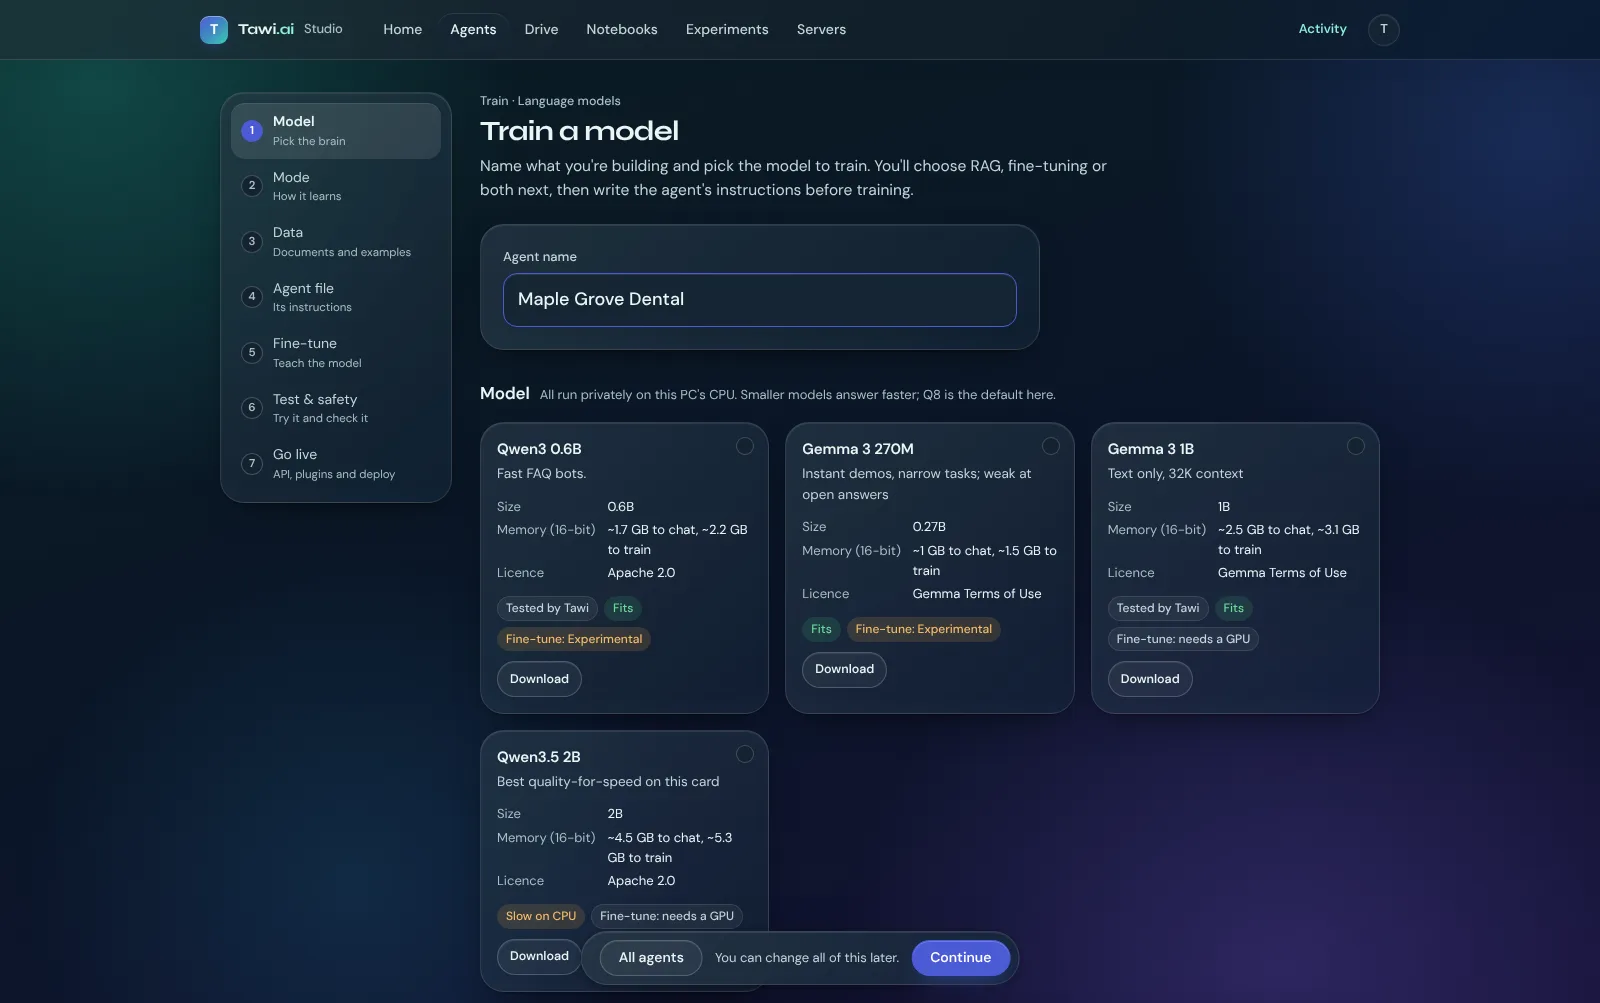
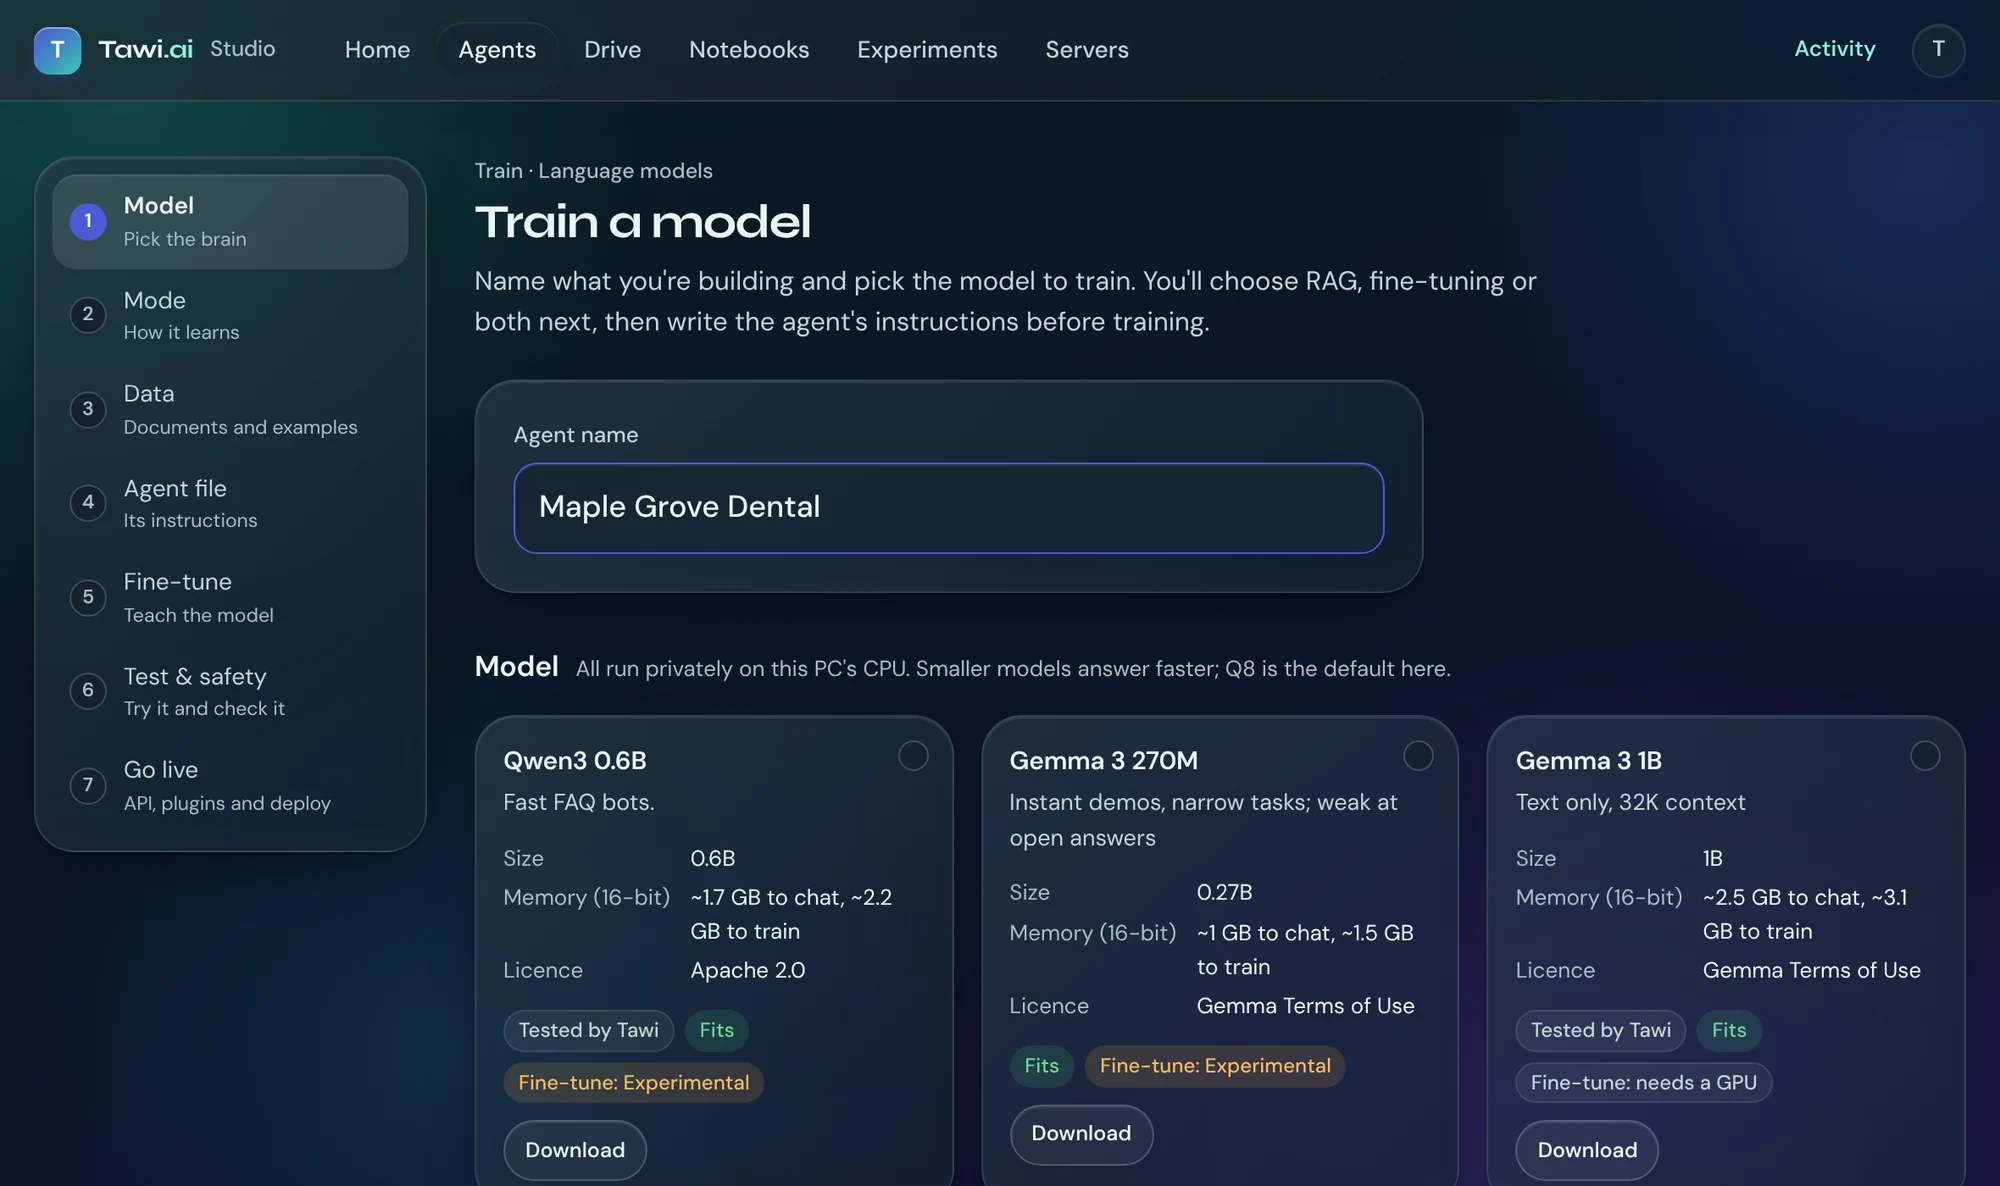
Sharper studio screenshot on the CRT: 2x capture, lighter scanlines, OSD moved

diff --git a/src/components/arcade/arcade.module.css b/src/components/arcade/arcade.module.css
@@ -30,7 +30,7 @@
 .stars { position: fixed; inset: 0; width: 100%; height: 100%; z-index: -1; }
 .fx { position: fixed; inset: 0; width: 100%; height: 100%; z-index: 89; pointer-events: none; }
 .crt { position: fixed; inset: 0; z-index: 90; pointer-events: none;
-  background: repeating-linear-gradient(to bottom, rgba(0, 0, 0, 0) 0 2px, rgba(0, 0, 0, 0.26) 2px 4px), radial-gradient(ellipse at center, transparent 55%, rgba(0, 0, 0, 0.6) 100%); }
+  background: repeating-linear-gradient(to bottom, rgba(0, 0, 0, 0) 0 3px, rgba(0, 0, 0, 0.07) 3px 4px), radial-gradient(ellipse at center, transparent 60%, rgba(0, 0, 0, 0.45) 100%); }
 :global(html).shipOn, :global(html).shipOn a, :global(html).shipOn button, :global(html).shipOn [tabindex] { cursor: none; }
 
 .wrap { position: relative; max-width: 1100px; margin: 0 auto; padding-left: max(16px, env(safe-area-inset-left, 0px)); padding-right: max(16px, env(safe-area-inset-right, 0px)); }
@@ -77,9 +77,9 @@
 .marquee { font-family: var(--pixel); font-size: 12px; text-align: center; padding: 12px; margin-bottom: 18px; color: var(--void);
   background: linear-gradient(90deg, var(--pink), var(--yellow), var(--cyan)); }
 .screen { position: relative; border-radius: 18px; overflow: hidden; border: 6px solid #000; background: #000; }
-.screen::after { content: ''; position: absolute; inset: 0; z-index: 4; pointer-events: none; box-shadow: inset 0 0 50px rgba(0, 0, 0, 0.75);
-  background: repeating-linear-gradient(to bottom, transparent 0 2px, rgba(0, 0, 0, 0.22) 2px 3px); }
-.tube img { display: block; width: 100%; height: auto; filter: saturate(1.15) contrast(1.04); }
+.screen::after { content: ''; position: absolute; inset: 0; z-index: 4; pointer-events: none; box-shadow: inset 0 0 36px rgba(0, 0, 0, 0.5);
+  background: repeating-linear-gradient(to bottom, transparent 0 3px, rgba(0, 0, 0, 0.09) 3px 4px); }
+.tube img { display: block; width: 100%; height: auto; }
 .off .tube { transform: scale(0, 0.003); filter: brightness(4); }
 .on .tube { animation: poweron 1.5s cubic-bezier(0.2, 0.8, 0.2, 1) both; }
 @keyframes poweron {
@@ -93,7 +93,7 @@
   background: repeating-radial-gradient(circle at 17% 32%, #fff 0 0.5px, transparent 1px 3px), repeating-radial-gradient(circle at 73% 61%, #aaa 0 0.5px, transparent 1px 2px); }
 .on .static { animation: snow 1.6s steps(6) both; }
 @keyframes snow { 0%, 40% { opacity: 0; } 50% { opacity: 0.55; background-position: 10px 4px, 3px 9px; } 65% { opacity: 0.35; background-position: 2px 12px, 9px 1px; } 100% { opacity: 0; } }
-.osd { position: absolute; z-index: 3; top: 18px; right: 22px; font-family: var(--pixel); font-size: 14px; color: var(--green); text-shadow: 0 0 8px var(--green); opacity: 0; }
+.osd { position: absolute; z-index: 3; bottom: 16px; right: 22px; font-family: var(--pixel); font-size: 14px; color: var(--green); text-shadow: 0 0 8px var(--green); opacity: 0; }
 .on .osd { animation: osd 4s 1.2s both; }
 @keyframes osd { 0%, 80% { opacity: 1; } 100% { opacity: 0; } }
 .controls { display: flex; justify-content: space-between; align-items: center; gap: 12px; padding: 20px 10px 0; font-family: var(--pixel); font-size: 10px; color: var(--dim); }

diff --git a/src/components/arcade/Arcade.tsx b/src/components/arcade/Arcade.tsx
@@ -336,7 +336,7 @@ export function Cabinet(): ReactNode {
       <div className={s.marquee}>TAWI STUDIO · 1 PLAYER · 127.0.0.1</div>
       <div ref={tv} className={`${s.screen} ${state === 'off' ? s.off : ''} ${state === 'on' ? s.on : ''}`}>
         <div className={s.tube}>
-          <img src={useBaseUrl('/img/studio/train-step-light.webp')} alt="The Tawi studio: naming a new agent and picking the model to train" width={1600} height={1003} />
+          <img src={useBaseUrl('/img/studio/train-step-light.webp')} alt="The Tawi studio: naming a new agent and picking the model to train" width={2000} height={1186} />
         </div>
         <div className={s.static} aria-hidden="true" />
         <div className={s.osd} aria-hidden="true">
